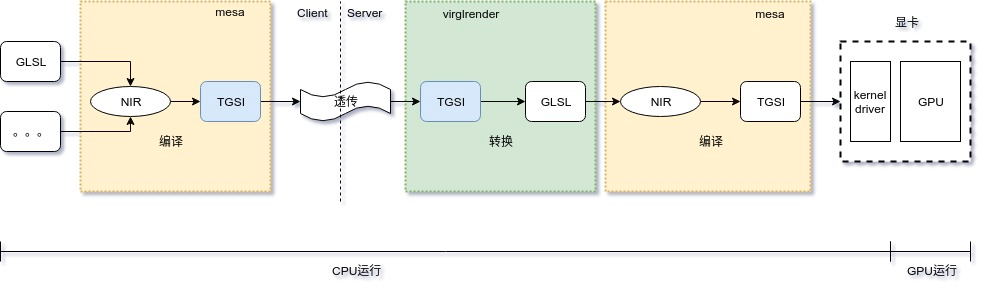
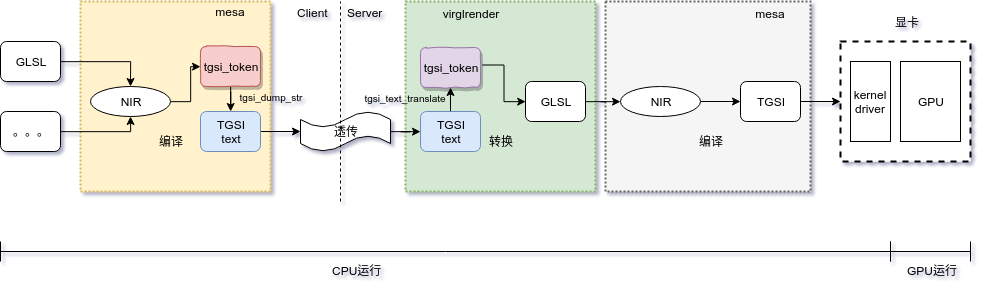
2019年 11月 27日 星期三 18:12:13 CST update branch-web_source

diff --git a/source/_posts/2019/09/tgsi_for_mesa.md b/source/_posts/2019/09/tgsi_for_mesa.md
@@ -31,7 +31,7 @@ TGSI是Gallium框架中的所有驱动程序使用着色器的唯一中间表示
 
 在Mesa上，GLSL首先被编译器翻译成tgsi中间语言，然后显卡特定的驱动将这些tgsi语言的代码编译成GPU指令。
 
-![shader_gtsi](/images/2019/09/shader_gtsi.png)
+![shader_gtsi](/images/2019/09/shader_tgsi.png)
 
 ```
 glxgears: shader
@@ -121,6 +121,8 @@ call glUseProgram(60)
 - `glGetShaderiv`: 从着色器对象返回一个参数
 - `glCreateProgram`: 创建一个空program对象并返回一个可以被引用的非零值（program ID）
 - `glUseProgram`: 安装program对象作为当前渲染状态的一部分
+
+![shader_create_flowchart](/images/2019/11/shader_create_flowchart.png)
 
 ## GLSL使用
 

diff --git a/source/todo/index.md b/source/todo/index.md
@@ -80,3 +80,4 @@ comments: true
 * [SpeedTest](https://www.speedtest.net) —— 测试网速
 * [Google Land Lines](https://lines.chromeexperiments.com/) —— 随便一笔 匹配地球
 * [FakeUpdate.net - Windows Update Prank by fediaFedia【[Mobile](http://fakeupdate.net/mobile/)】](http://fakeupdate.net/) —— 在线模拟各种系统升级过程
+* [Flightradar24](https://www.flightradar24.com/) —— 提供实时的航班信息数据

diff --git a/source/_posts/tool_linux_use.md b/source/_posts/tool_linux_use.md
@@ -59,9 +59,14 @@ sudo cp mtextra.ttf  symbol.ttf  WEBDINGS.TTF  wingding.ttf  WINGDNG2.ttf  WINGD
 
 - https://github.com/geeeeeeeeek/electronic-wechat/releases/download/V2.0/linux-x64.tar.gz
 
+```
+sudo snap install electronic-wechat
+```
+
 ## 钉钉 for Linux
 
 * [https://github.com/nashaofu/dingtalk](https://github.com/nashaofu/dingtalk)
+
 
 ## Teamviewer
 
